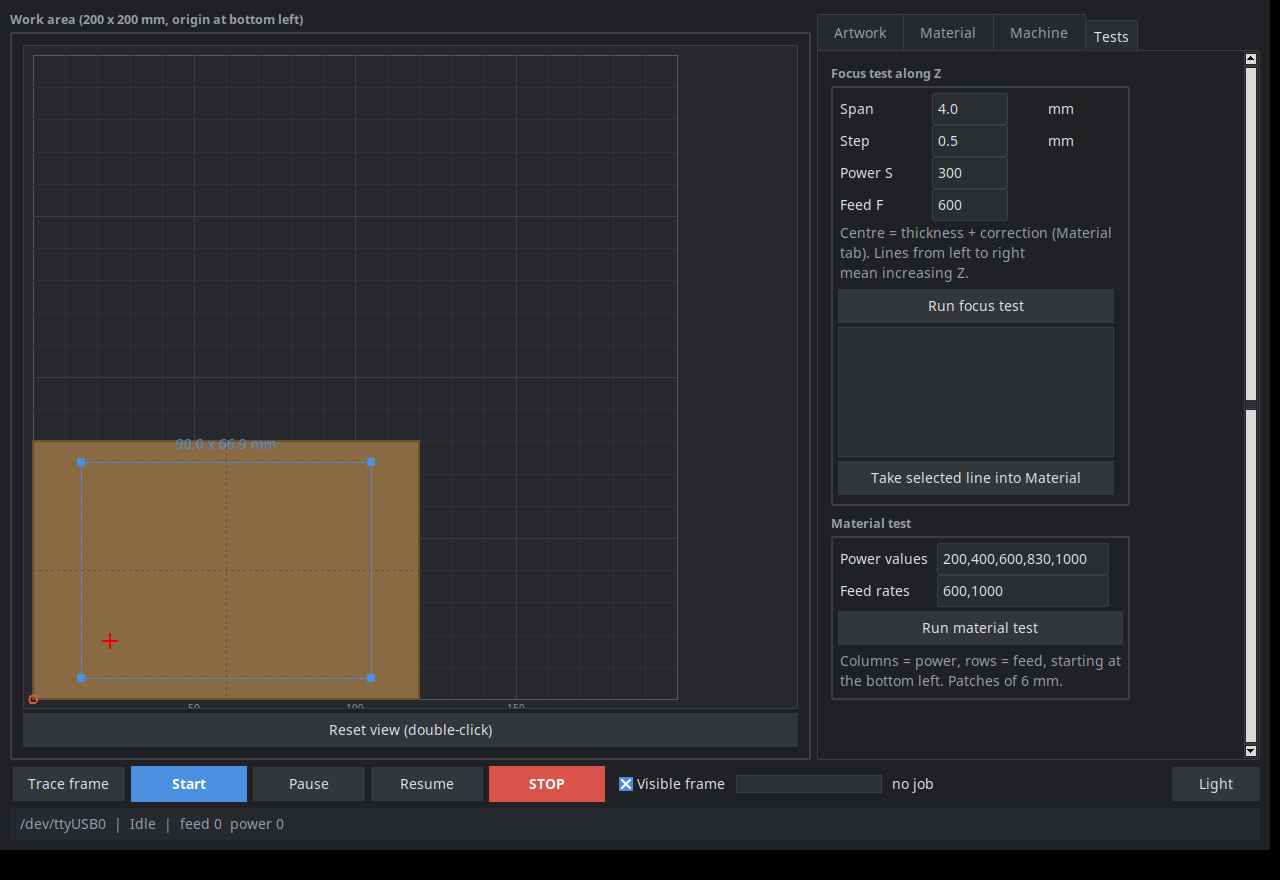
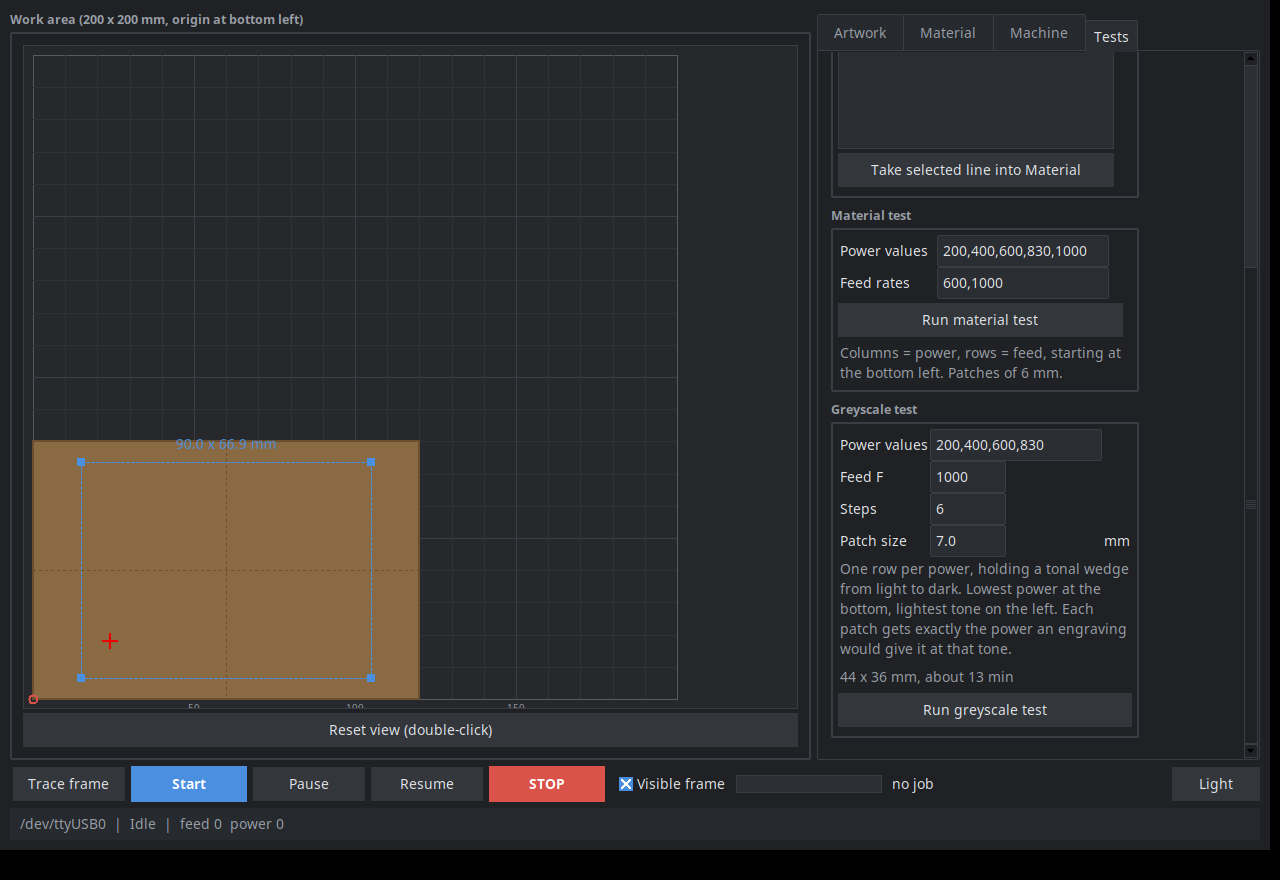
Graustufentest und freies Drehen
Graustufentest: eine Zeile je Leistung, darin ein Tonwertkeil von hell nach
dunkel. Jedes Feld bekommt genau die Leistung, die eine Gravur an dieser
Stelle auch bekaeme (mit dem 30-Prozent-Boden), damit der Streifen zeigt, ab
welchem Ton das Holz anspricht und ab welchem es zulaeuft. Masse und Laufzeit
stehen vor dem Start im Reiter.

Drehen: beliebige Winkel statt vier Stufen. Das umschliessende Rechteck wird
dafuer allgemein gerechnet; beim Schneiden aus der wirklich gedrehten Kontur,
weil das gedrehte Rechteck um eine Kontur groesser ist als das Rechteck um
die gedrehte Kontur - sonst sitzt 'mittig' daneben.

diff --git a/laserwerk.py b/laserwerk.py
@@ -5,7 +5,7 @@ Laserwerk - Oberflaeche fuer GRBL-Diodenlaser.
 Bild oder SVG laden, skalieren, Material waehlen, Achsen steuern,
 Nullpunkt setzen, Fokus testen, gravieren.
 """
-import base64, io, os, queue, threading, time
+import base64, io, math, os, queue, threading, time
 from PIL import Image
 import tkinter as tk
 from tkinter import ttk
@@ -50,6 +50,7 @@ class App:
         self.v_snap = tk.BooleanVar(value=self.cfg["einrasten"])
         self.vec = None            # Konturen (nur bei SVG/DXF)
         self.vec_bb = None         # deren exakte Ausdehnung in mm
+        self._vecdreh = None       # Ausdehnung der gedrehten Konturen
         self.cut_polys = None      # erzeugte Schnittkonturen
         self.zero_ok = False       # Nullpunkt XY in dieser Sitzung gesetzt
         self.zref_ok = False       # Z-Referenz gueltig
@@ -267,12 +268,20 @@ class App:
         ttk.Label(rs, text=T("Mittellinie der Aufspannung, nicht des Motivs."),
                   style="Muted.TLabel").grid(row=4, column=0, columnspan=3, sticky="w")
 
-        self.v_rot = tk.IntVar(value=0)
+        self.v_rot = tk.DoubleVar(value=0.0)
         ttk.Label(f, text=T("Drehen")).grid(row=8, column=0, sticky="w")
-        cb = ttk.Combobox(f, textvariable=self.v_rot, values=[0, 90, 180, 270],
-                          width=5, state="readonly")
-        cb.grid(row=8, column=1, sticky="w")
-        cb.bind("<<ComboboxSelected>>", lambda e: self._rotated())
+        dr = ttk.Frame(f)
+        dr.grid(row=8, column=1, columnspan=2, sticky="w")
+        sb = ttk.Spinbox(dr, from_=0, to=359.9, increment=5, width=6, wrap=True,
+                         textvariable=self.v_rot, command=self._rotated)
+        sb.pack(side="left")
+        sb.bind("<Return>", lambda e: self._rotated())
+        sb.bind("<FocusOut>", lambda e: self._rotated())
+        ttk.Label(dr, text="°").pack(side="left", padx=(2, 6))
+        for grad in (90, 180, 270, 0):
+            ttk.Button(dr, text=f"{grad}°" if grad else "0",
+                       width=4 if grad else 3,
+                       command=lambda g=grad: self._dreh_setzen(g)).pack(side="left")
 
         self.v_inv = tk.BooleanVar(value=False)
         ttk.Checkbutton(f, text=T("Invertieren (Hell und Dunkel tauschen)"), variable=self.v_inv
@@ -527,6 +536,30 @@ class App:
         ttk.Label(mb, text=T("Spalten = Leistung, Zeilen = Vorschub,\n"
                              "unten links beginnend. Felder 6 mm."), style="Muted.TLabel").grid(row=3, column=0, columnspan=3, sticky="w")
 
+        gb = ttk.LabelFrame(f, text=T("Graustufentest"), padding=6)
+        gb.grid(row=2, column=0, sticky="ew", pady=(0, 8))
+        self.v_gt_s = tk.StringVar(value="200,400,600,830")
+        self.v_gt_f = tk.IntVar(value=1000)
+        self.v_gt_n = tk.IntVar(value=6)
+        self.v_gt_feld = tk.DoubleVar(value=7.0)
+        self._row(gb, 0, "Leistungen", self.v_gt_s, width=20)
+        self._row(gb, 1, "Vorschub F", self.v_gt_f)
+        self._row(gb, 2, "Stufen", self.v_gt_n)
+        self._row(gb, 3, "Feldgröße", self.v_gt_feld, unit="mm")
+        ttk.Label(gb, text=T("Eine Zeile je Leistung, darin ein Tonwertkeil\n"
+                             "von hell nach dunkel. Unten die kleinste\n"
+                             "Leistung, links der hellste Ton. Jedes Feld\n"
+                             "bekommt genau die Leistung, die eine Gravur\n"
+                             "an dieser Stelle auch bekäme."),
+                  style="Muted.TLabel").grid(row=4, column=0, columnspan=3, sticky="w")
+        self.lbl_gt = ttk.Label(gb, text="", style="Muted.TLabel")
+        self.lbl_gt.grid(row=5, column=0, columnspan=3, sticky="w", pady=(4, 0))
+        ttk.Button(gb, text=T("Graustufentest starten"), command=self.graustufentest
+                   ).grid(row=6, column=0, columnspan=3, sticky="ew", pady=4)
+        for v in (self.v_gt_s, self.v_gt_f, self.v_gt_n, self.v_gt_feld):
+            v.trace_add("write", lambda *a: self._gt_vorschau())
+        self._gt_vorschau()
+
     # ================================================================ Motiv
     def open_image(self):
         p = filedialog.askopenfilename(
@@ -560,6 +593,7 @@ class App:
         self.clear_motif()
         self.src, self.src_path, self.vec = im, p, vec
         self.vec_bb = V.bbox(V.flatten(vec, 1.0)) if vec else None
+        self._vecdreh = None
         if ext == ".dxf":
             self.v_job.set("schnitt")       # DXF = nur Konturen
         elif not vec and self.v_job.get() == "schnitt":
@@ -574,7 +608,7 @@ class App:
             messagebox.showinfo(T("Motiv"), T("Während eines Jobs nicht möglich."))
             return
         self.src = self.src_path = None
-        self.vec = self.cut_polys = self.vec_bb = None
+        self.vec = self.cut_polys = self.vec_bb = self._vecdreh = None
         self.lines = self.info = self.preview_img = None
         self.preview_pil = self._prev_cache = self._live_cache = None
         self.drag = None
@@ -593,10 +627,7 @@ class App:
                 T("Nur bei SVG und DXF möglich - Pixelbilder haben keine\n"
                   "verlässliche Größe in Millimetern."))
             return
-        x0, y0, x1, y1 = self._vec_bbox()
-        w, h = x1 - x0, y1 - y0
-        if self.v_rot.get() in (90, 270):
-            w, h = h, w
+        w, h = self._vec_dreh_bb()               # 1:1 heisst: so, wie gedreht
         self.v_w.set(round(w, 3)); self.v_h.set(round(h, 3))
         self._log(T('Originalgröße 1:1: {0:.3f} x {1:.3f} mm').format(w, h))
         self._stale(); self._draw()
@@ -617,17 +648,40 @@ class App:
                         "(z.B. Papier S500/F600)"))
         self.fit()
 
+    def _vec_dreh_bb(self):
+        """Ausdehnung der GEDREHTEN Konturen. Das gedrehte Rechteck um eine
+        Kontur ist meist groesser als das Rechteck um die gedrehte Kontur -
+        wer damit rechnet, setzt das Motiv nicht wirklich mittig."""
+        if not self.vec:
+            return None
+        try:
+            grad = round(float(self.v_rot.get()), 1)
+        except tk.TclError:
+            grad = 0.0
+        if self._vecdreh and self._vecdreh[0] == grad:
+            return self._vecdreh[1]
+        x0, y0, x1, y1 = V.bbox(V.rotate(V.flatten(self.vec, 1.0), grad))
+        self._vecdreh = (grad, (x1 - x0, y1 - y0))
+        return self._vecdreh[1]
+
+    def _dreh_bb(self, w, h):
+        """Umschliessendes Rechteck nach dem Drehen - fuer jeden Winkel, nicht
+        nur fuer Vielfache von 90 Grad."""
+        try:
+            a = math.radians(float(self.v_rot.get()))
+        except tk.TclError:
+            return w, h
+        c, s = abs(math.cos(a)), abs(math.sin(a))
+        return w * c + h * s, w * s + h * c
+
     def _aspect(self):
         if self.src is None:
             return 1.0
         if self.v_job.get() == "schnitt" and self.vec:
-            x0, y0, x1, y1 = self._vec_bbox()
-            w, h = x1 - x0, y1 - y0
+            w, h = self._vec_dreh_bb()
         else:
-            w, h = self.src.size
-        if self.v_rot.get() in (90, 270):
-            w, h = h, w
-        return w / h
+            w, h = self._dreh_bb(*self.src.size)
+        return w / h if h else 1.0
 
     def _keep_ratio(self, which):
         if not self.v_lock.get() or self.src is None:
@@ -650,7 +704,15 @@ class App:
             return
         self.lbl_gamma.configure(text=f"{g:.1f}")
 
+    def _dreh_setzen(self, grad):
+        self.v_rot.set(float(grad))
+        self._rotated()
+
     def _rotated(self):
+        try:                         # 370 -> 10, -5 -> 355
+            self.v_rot.set(round(float(self.v_rot.get()) % 360, 1))
+        except tk.TclError:
+            return
         self._keep_ratio("w")
 
     def _stale(self):
@@ -749,10 +811,7 @@ class App:
         if not self.vec:
             messagebox.showinfo(T("Schneiden"), T("Keine Konturen - bitte ein SVG oder DXF öffnen."))
             return
-        x0, y0, x1, y1 = self._vec_bbox()
-        bw, bh = x1 - x0, y1 - y0
-        if self.v_rot.get() in (90, 270):
-            bw, bh = bh, bw
+        bw, bh = self._vec_dreh_bb()
         sc = min(w / bw if bw else 1e9, h / bh if bh else 1e9)
         polys = V.flatten(self.vec, sc)
         polys = V.rotate(polys, self.v_rot.get())
@@ -1184,6 +1243,47 @@ class App:
         z = self.fokus_zs[sel[0]]
         self.v_korr.set(round(z - self.v_dicke.get(), 2))
         self._log(T('Fokuskorrektur = {0:+.2f} mm - im Reiter Material speichern').format(self.v_korr.get()))
+
+    def _gt_werte(self):
+        ps = [int(x) for x in self.v_gt_s.get().replace(" ", "").split(",") if x]
+        return (ps, int(self.v_gt_f.get()), max(2, int(self.v_gt_n.get())),
+                max(2.0, float(self.v_gt_feld.get())))
+
+    def _gt_vorschau(self):
+        """Maße und Laufzeit vorab zeigen - der Test frisst sonst unbemerkt
+        eine halbe Stunde und ein halbes Brett."""
+        try:
+            ps, fv, n, feld = self._gt_werte()
+            if not ps:
+                raise ValueError
+        except (tk.TclError, ValueError):
+            self.lbl_gt.configure(text=T("Werte prüfen."))
+            return
+        _, i = J.graustufentest(ps, fv, n, feld, line=self.v_line.get())
+        self.lbl_gt.configure(text=T("{b:.0f} x {h:.0f} mm, Laufzeit ca. "
+                                     "{min:.0f} min").format(
+            b=i["breite"], h=i["hoehe"], min=i["sekunden"] / 60))
+
+    def graustufentest(self):
+        if not self._need(zero=True):
+            return
+        try:
+            ps, fv, n, feld = self._gt_werte()
+            if not ps:
+                raise ValueError
+        except (tk.TclError, ValueError):
+            messagebox.showerror(T("Graustufentest"),
+                                 T("Werte mit Komma trennen, z.B. 200,400,600"))
+            return
+        g, i = J.graustufentest([self._s(p) for p in ps], fv, n, feld,
+                                line=self.v_line.get())
+        self.lines, self.info = g, i
+        self.preview_pil = self.preview_img = self.cut_polys = None
+        self._log(T("Graustufentest: {n} Leistungen x {s} Stufen, "
+                    "{b:.0f} x {h:.0f} mm").format(n=len(ps), s=n,
+                                                   b=i["breite"], h=i["hoehe"]))
+        self._draw()
+        self._run(g, T("Graustufentest"), confirm=True)
 
     def materialtest(self):
         if not self._need(zero=True):
@@ -1651,10 +1751,7 @@ class App:
             # V.fit setzt die Konturen seitenverhaeltnistreu in den Rahmen und
             # legt sie an die linke untere Ecke. Dann ist der gezeichnete
             # Kasten groesser als der Schnitt - und "mittig" waere daneben.
-            x0, y0, x1, y1 = self._vec_bbox()
-            bw, bh = x1 - x0, y1 - y0
-            if self.v_rot.get() in (90, 270):
-                bw, bh = bh, bw
+            bw, bh = self._vec_dreh_bb()
             if bw > 0 and bh > 0:
                 sc = min(b / bw, h / bh)
                 b, h = bw * sc, bh * sc

diff --git a/lw_text.py b/lw_text.py
@@ -306,8 +306,6 @@ EN = {
         'Values between 10 and 2000 mm.',
     'Noch keine $$-Antwort. Erst verbinden - die Werte werden\ndann automatisch gelesen.':
         'No $$ answer yet. Connect first - the values are\nread automatically then.',
-    'Arbeitsbereich ({x:.0f} x {y:.0f} mm, Nullpunkt unten links)':
-        'Work area ({x:.0f} x {y:.0f} mm, origin at bottom left)',
     '$30 = {ist:.0f} statt {soll}: Die Werte hier sind auf 0..{soll} bezogen und werden beim Senden umgerechnet (S{a:.0f} wird S{b:.0f}).':
         '$30 = {ist:.0f} instead of {soll}: values here refer to 0..{soll} and are converted when sent (S{a:.0f} becomes S{b:.0f}).',
     "$32 = 0: Der Lasermodus ist AUS. Der Strahl brennt dann auch im Stillstand weiter - mit '$32=1' einschalten.":
@@ -473,8 +471,6 @@ EN = {
     "VERBINDUNG VERLOREN - im Zweifel Laserschalter von Hand aus!":
         "CONNECTION LOST - when in doubt, switch the laser off by hand!",
     # ---- Module ausserhalb der Oberflaeche
-    "nicht verbunden": "not connected",
-    "Job laeuft": "job running",
     "Zeile nicht verstanden: {z!r} ({e})": "line not understood: {z!r} ({e})",
     "Datei öffnen": "Open file",
     "Speichern unter": "Save as",
@@ -603,7 +599,6 @@ EN = {
     "größer = Mitten heller (nur Graustufen)":
         "higher = lighter midtones (greyscale only)",
     # ---- Nullpunkt ueber den Soft-Reset retten
-    "Zum Nullpunkt fahren": "Move to origin",
     "In dieser Sitzung ist kein Nullpunkt gesetzt (oder er ist nach einem "
     "STOPP verloren).\n\nX0 Y0 ist dann der Nullpunkt der MASCHINE, nicht der "
     "des Werkstücks - der Kopf fährt irgendwohin.\n\nTrotzdem fahren?":
@@ -616,4 +611,23 @@ EN = {
         "Origin restored after the STOP (X {x:.2f} / Y {y:.2f}).",
     "Nullpunkt konnte nicht wiederhergestellt werden ({r}) - bitte neu setzen.":
         "Could not restore the origin ({r}) - please set it again.",
+    # ---- Graustufentest
+    "Graustufentest": "Greyscale test",
+    "Graustufentest starten": "Run greyscale test",
+    "Stufen": "Steps", "Feldgröße": "Patch size",
+    "Eine Zeile je Leistung, darin ein Tonwertkeil\n"
+    "von hell nach dunkel. Unten die kleinste\n"
+    "Leistung, links der hellste Ton. Jedes Feld\n"
+    "bekommt genau die Leistung, die eine Gravur\n"
+    "an dieser Stelle auch bekäme.":
+        "One row per power, holding a tonal wedge\n"
+        "from light to dark. Lowest power at the\n"
+        "bottom, lightest tone on the left. Each\n"
+        "patch gets exactly the power an engraving\n"
+        "would give it at that tone.",
+    "{b:.0f} x {h:.0f} mm, Laufzeit ca. {min:.0f} min":
+        "{b:.0f} x {h:.0f} mm, about {min:.0f} min",
+    "Werte prüfen.": "Check the values.",
+    "Graustufentest: {n} Leistungen x {s} Stufen, {b:.0f} x {h:.0f} mm":
+        "Greyscale test: {n} power levels x {s} steps, {b:.0f} x {h:.0f} mm",
 }

diff --git a/lw_job.py b/lw_job.py
@@ -196,6 +196,48 @@ def materialtest(powers, feeds, feld=6.0, gap=2.5, line=0.12):
     return g
 
 
+def graustufentest(powers, feed, stufen=6, feld=7.0, gap=2.5, line=0.12,
+                   boden=0.3):
+    """Streifen aus Graustufenfeldern: eine Zeile je Leistung, darin ein
+    Tonwertkeil von hell nach dunkel.
+
+    Jedes Feld bekommt genau die Leistung, die eine Gravur an dieser Stelle
+    auch bekaeme: s = boden*S + ton*(S - boden*S). So zeigt der Streifen,
+    ab welchem Ton das Material ueberhaupt anspricht und ab welchem es
+    zulaeuft - und der Vergleich der Zeilen sagt, welche Leistung passt.
+
+    Unten die kleinste Leistung, links der hellste Ton.
+    Rueckgabe (zeilen, info) wie bei raster_gcode.
+    """
+    g = ["; greyscale test", "; rows = power, columns = tone, light to dark",
+         "G21", "G90", "G94", "M4 S0"]
+    segs = []
+    rows = 0
+    for r, s_max in enumerate(powers):
+        yb = 3.0 + r * (feld + gap)
+        s_min = int(round(s_max * boden))
+        g.append(f"; S{s_max} F{feed}")
+        for c in range(stufen):
+            ton = (c + 1) / stufen                     # hellstes Feld nicht leer
+            sv = int(round(s_min + ton * (s_max - s_min)))
+            xb = 3.0 + c * (feld + gap * 0.2)
+            g.append(f"; Ton {ton:.2f} -> S{sv}")
+            for i in range(int(feld / line)):
+                y = yb + i * line
+                a_, b_ = (xb, xb + feld) if i % 2 == 0 else (xb + feld, xb)
+                g += [f"G0 X{a_:.2f} Y{y:.2f}",
+                      f"G1 X{b_:.2f} S{sv} F{feed}", "G1 S0"]
+                segs.append(feld)
+                rows += 1
+    g += ["M5", "G0 X0 Y0"]
+    breite = stufen * feld + (stufen - 1) * gap * 0.2
+    hoehe = len(powers) * feld + (len(powers) - 1) * gap
+    info = dict(rows=rows, cut_m=sum(segs) / 1000, trav_m=0.0, befehle=len(g),
+                xmin=3.0, xmax=3.0 + breite, breite=breite, hoehe=hoehe,
+                sekunden=estimate(segs, feed, rows))
+    return g, info
+
+
 def gcode_preview(lines, px_per_mm, s_max=S_MAX, super_=3):
     """Fremden G-Code nachzeichnen: jede Fahrt mit Laser an, Graustufe nach S.
     Beachtet G0/G1/G2/G3 (Boegen als Sehne), G90/G91, M3/M4/M5, modale Werte.

diff --git a/bilder/mach_bilder.py b/bilder/mach_bilder.py
@@ -22,6 +22,11 @@ import lw_job as J
 import lw_text
 import laserwerk as L
 
+# Kein Telegram beim Bildermachen: sonst fragt der Bot gegen ein laufendes
+# Laserwerk und beide bekommen 409 von Telegram.
+L.TG.Fern.start = lambda self: "aus"
+
+
 
 class Attrappe:
     """Sieht fuer die Oberflaeche aus wie ein verbundener Controller."""
@@ -119,6 +124,8 @@ def main():
     schiess(root, vorsatz + "04-maschine.png")
 
     app.nb.select(3)                    # Tests
+    root.update()
+    runter(app.tab_test)                # die Spalte ist laenger als das Fenster
     root.update()
     schiess(root, vorsatz + "05-tests.png")
     root.destroy()

diff --git a/README.md b/README.md
@@ -28,13 +28,14 @@ settings for a new material.
   original size 1:1 for templates straight out of CAD.
 - **Place** — enter the length and width of your workpiece, then drag the
   artwork onto it with the mouse and resize it by its corners, snapping to
-  edges, corners and centre.
+  edges, corners and centre. Rotate to any angle, not just multiples of 90°.
 - **Drive the machine** — jog the axes, set the origin, set a Z reference,
   trace a frame around the artwork, show where the head stands with a short
   sight cross at low power, unlock, send single G-code commands.
 - **Find material settings** — a focus test along Z, a material test as a grid
-  of power and feed values, and presets holding thickness, focus correction,
-  power, feed and row pitch.
+  of power and feed values, a greyscale test with one tonal wedge per power,
+  and presets holding thickness, focus correction, power, feed, row pitch and
+  midtones.
 - **Engrave both sides** — mirror about a flip axis, with a check that the
   mirrored artwork still lands in positive coordinates.
 - **Remote control via Telegram** — jog the axes and trace the sight cross from

diff --git a/README.de.md b/README.de.md
@@ -27,13 +27,14 @@ Material ausprobieren will.
   Originalgröße 1:1 für Schablonen aus dem CAD.
 - **Platzieren** — Werkstück mit Länge und Breite angeben, Motiv mit der Maus
   darauf schieben und an den Ecken skalieren, mit Einrasten auf Kanten, Ecken
-  und Mitte.
+  und Mitte. Drehen in beliebigen Winkeln, nicht nur in 90er-Schritten.
 - **Maschine fahren** — Achsen tippen, Nullpunkt setzen, Z-Referenz,
   Rahmenfahrt um das Motiv, Sichtkreuz mit schwacher Leistung („wo steht er
   gerade?"), Entsperren, einzelne G-Code-Befehle.
 - **Material finden** — Fokustest über Z, Materialtest als Feldraster aus
-  Leistungen und Vorschüben, Presets mit Materialdicke, Fokuskorrektur,
-  Leistung, Vorschub und Zeilenabstand.
+  Leistungen und Vorschüben, Graustufentest mit einem Tonwertkeil je
+  Leistung, Presets mit Materialdicke, Fokuskorrektur, Leistung, Vorschub,
+  Zeilenabstand und Tonwert.
 - **Zweiseitig gravieren** — Spiegeln an einer Wendeachse, mit Prüfung, ob das
   gespiegelte Motiv noch im positiven Bereich liegt.
 - **Fernsteuerung über Telegram** — Achsen und Sichtkreuz vom Handy, während man
